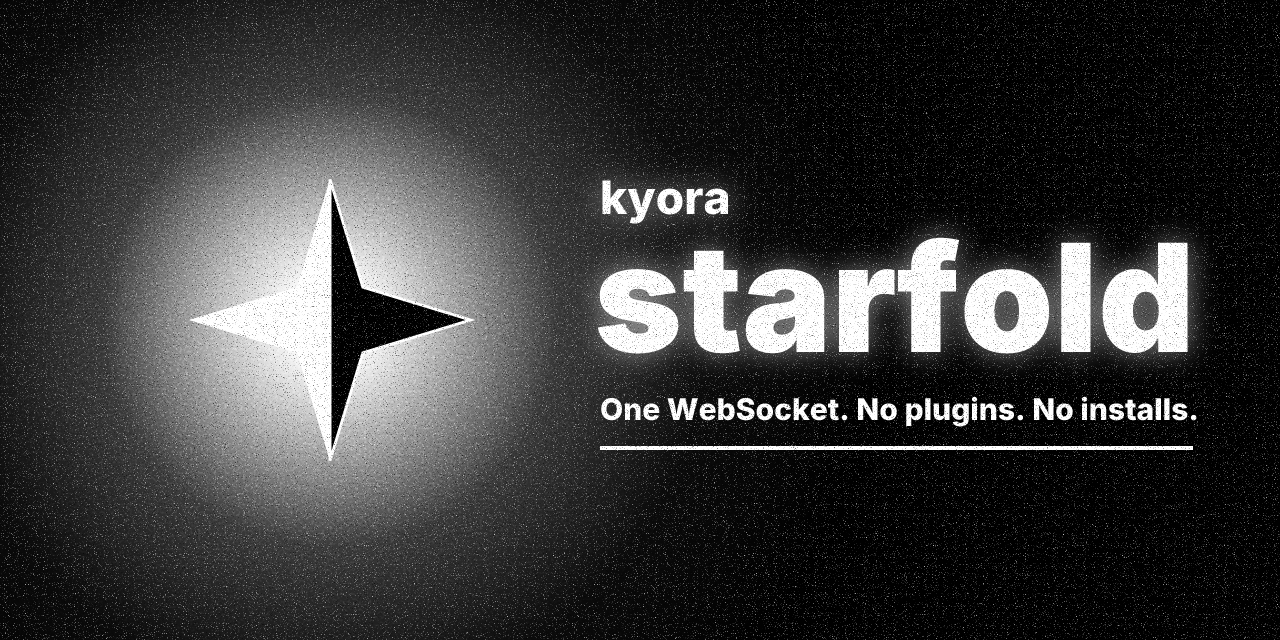
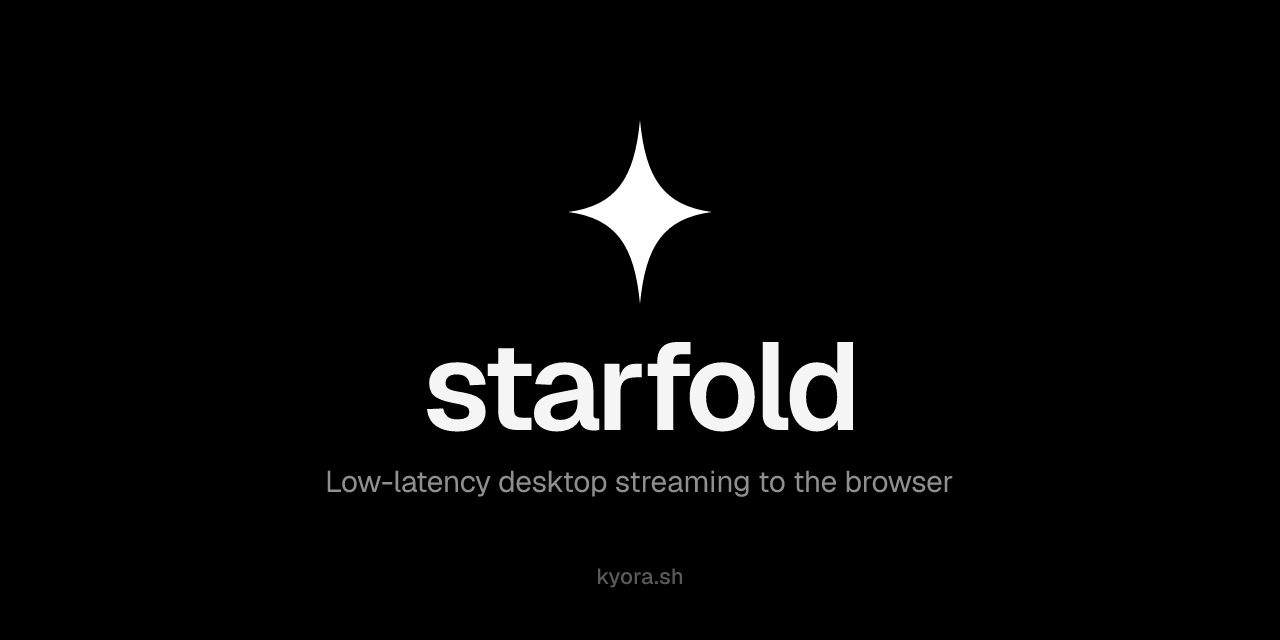
chore: single-star brand, README header, demo capture and badges
Replaces the mark, wordmark, icon, favicon and social card with one flat white star and
Geist lettering as outlines.

diff --git a/THIRD_PARTY.md b/THIRD_PARTY.md
@@ -4,8 +4,10 @@
   `packages/web/dav1d/dav1d.wasm`, which the server embeds. Licences:
   [packages/web/dav1d/COPYING-dav1d](packages/web/dav1d/COPYING-dav1d) and
   [packages/web/dav1d/COPYING-wasi-libc](packages/web/dav1d/COPYING-wasi-libc).
-- **Inter** (SIL Open Font License 1.1), the web client's font in `packages/web/inter.woff2`; the
-  wordmarks in `assets/` use its outlines. Licence: [packages/web/inter-LICENSE.txt](packages/web/inter-LICENSE.txt).
+- **Inter** (SIL Open Font License 1.1), the web client's font in `packages/web/inter.woff2`. Licence:
+  [packages/web/inter-LICENSE.txt](packages/web/inter-LICENSE.txt).
+- **Geist** (SIL Open Font License 1.1, The Geist Project Authors,
+  [vercel/geist-font](https://github.com/vercel/geist-font)): the lettering in `assets/` uses its outlines.
 - **OpenH264** (BSD-2-Clause), built from source, in builds that include it.
 - **x264** (GPL-2.0-or-later), in builds with the `x264` feature. A binary built with x264 is
   distributed under GPL-2.0-or-later as a combined work; starfold's own source stays MIT.

diff --git a/README.md b/README.md
@@ -1,11 +1,11 @@
+<img src="assets/starfold-header.svg" width="100%" alt="starfold: low-latency desktop streaming to the browser">
+
 <p align="center">
-  <picture>
-    <source media="(prefers-color-scheme: dark)" srcset="assets/starfold-wordmark-dark.svg">
-    <img alt="kyora starfold" src="assets/starfold-wordmark-light.svg" width="360">
-  </picture>
+  <a href="LICENSE"><img alt="source licence: MIT" src="https://img.shields.io/badge/source-MIT-000000"></a>
+  <a href="https://github.com/kyora-sh/starfold/actions/workflows/ci.yml"><img alt="CI" src="https://github.com/kyora-sh/starfold/actions/workflows/ci.yml/badge.svg"></a>
 </p>
 
-<p align="center">Low-latency desktop streaming to the browser.</p>
+<img src="assets/starfold-demo.gif" width="100%" alt="a terminal and starfold's help text, typed in and scrolled through a starfold stream">
 
 kyora starfold streams a desktop to a plain browser tab over one WebSocket: an X11 display (Xvfb
 included), a Mac's screen or a Windows desktop. The browser decodes with WebCodecs. H.264 is the
